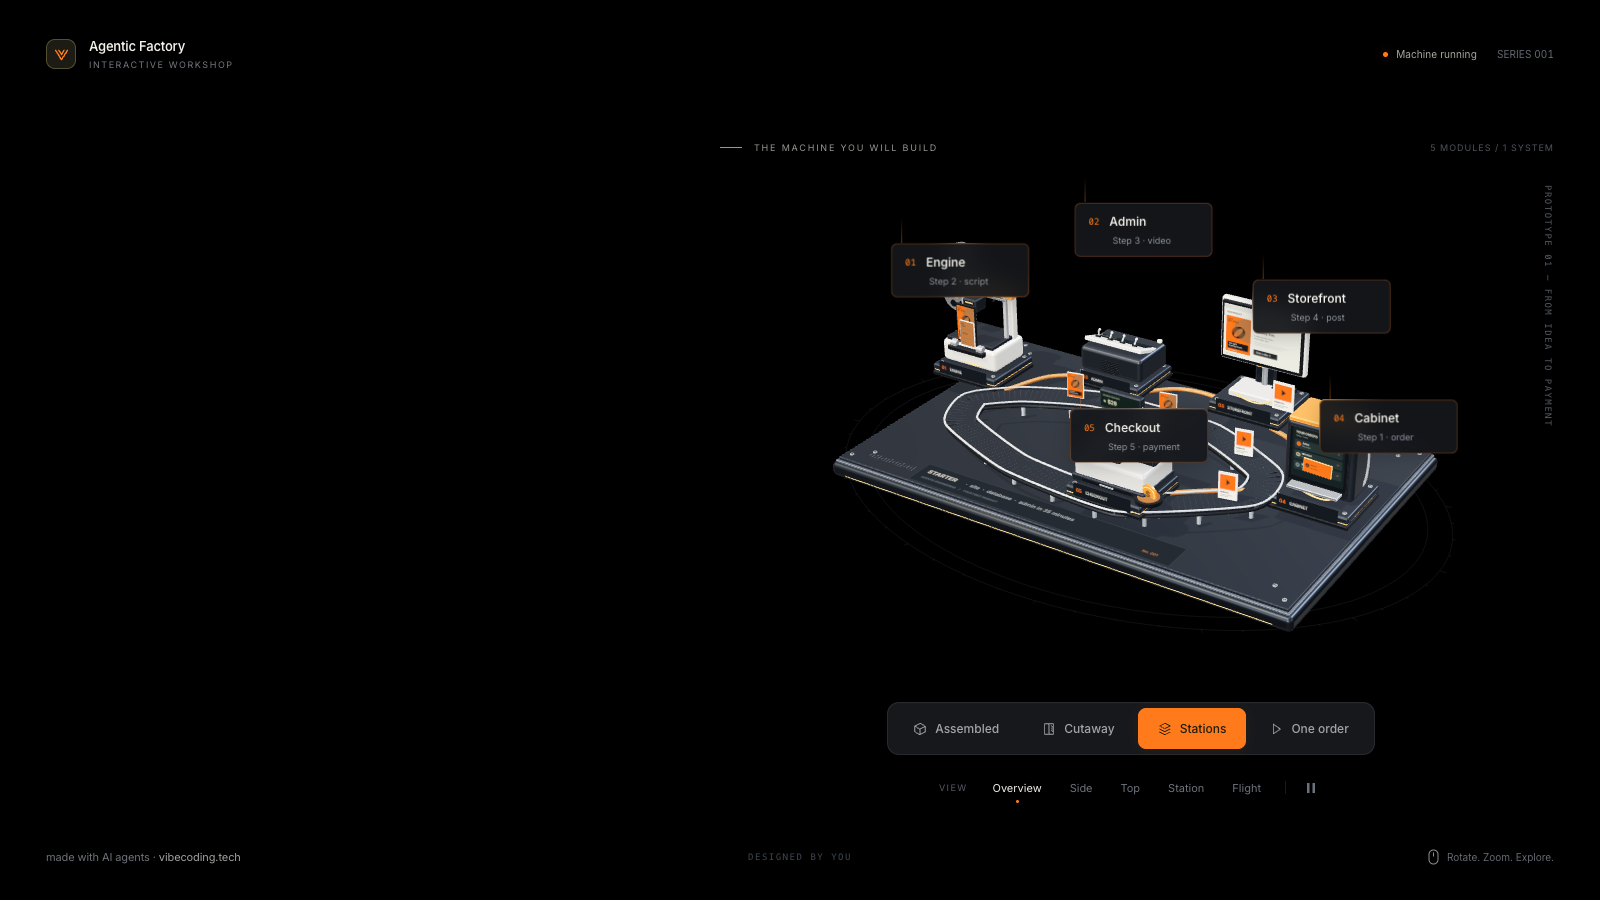
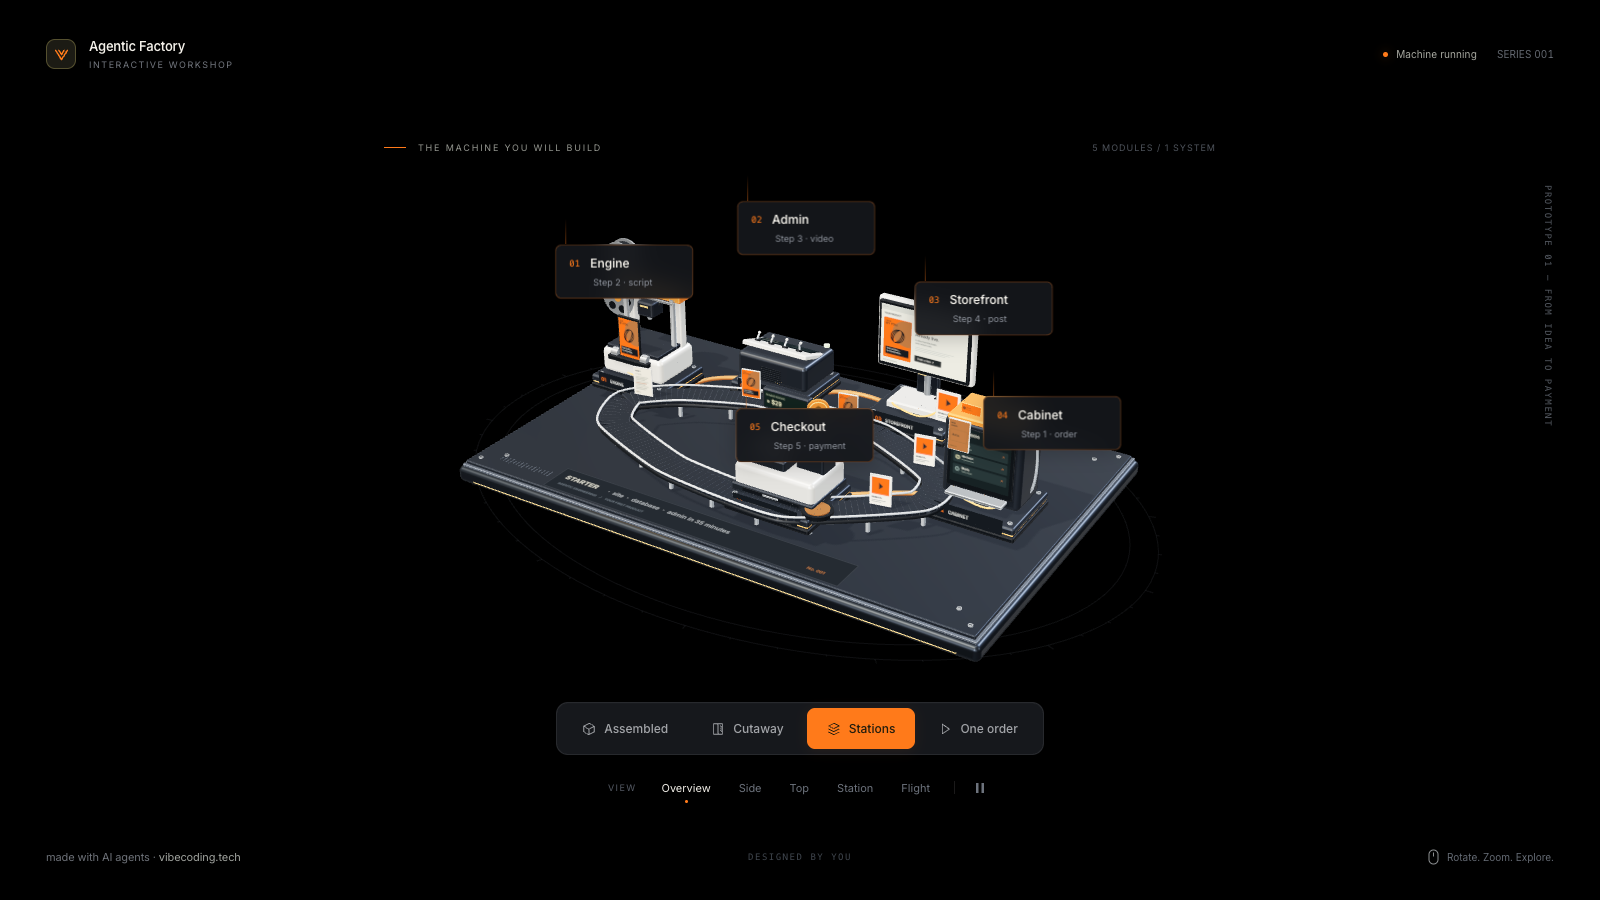
Agentic Factory: center the machine on the full page

diff --git a/agentic-factory-3d/app/globals.css b/agentic-factory-3d/app/globals.css
@@ -67,7 +67,7 @@ a:focus-visible {
   inset: 0;
   pointer-events: none;
   background: radial-gradient(
-    ellipse at 71% 48%,
+    ellipse at 50% 48%,
     transparent 30%,
     rgba(0, 0, 0, 0.12) 64%,
     rgba(0, 0, 0, 0.65) 100%
@@ -137,8 +137,8 @@ a:focus-visible {
 .scene-heading {
   position: absolute;
   top: 110px;
-  left: 45%;
-  right: 32px;
+  left: 24%;
+  right: 24%;
   pointer-events: none;
   display: flex;
   align-items: center;
@@ -177,7 +177,7 @@ a:focus-visible {
 .controls {
   position: absolute;
   bottom: 79px;
-  left: 43%;
+  left: 26px;
   right: 26px;
   display: flex;
   align-items: center;
@@ -408,8 +408,8 @@ svg {
 }
 #journey {
   position: absolute;
-  left: 46%;
-  right: 35px;
+  left: 24%;
+  right: 24%;
   top: 148px;
   opacity: 0;
   transform: translateY(-5px);
@@ -456,7 +456,7 @@ svg {
 }
 #loading {
   position: absolute;
-  left: 71%;
+  left: 50%;
   top: 48%;
   transform: translate(-50%, -50%);
   display: flex;
@@ -486,8 +486,8 @@ svg {
 }
 #error {
   position: absolute;
-  left: 48%;
-  right: 7%;
+  left: 27.5%;
+  right: 27.5%;
   top: 40%;
   border: 1px solid #ff7a1a30;
   background: #191b1f;
@@ -529,13 +529,23 @@ svg {
 .embed .wordmark {
   opacity: 0.65;
 }
+/* Embedded in a wide hero the machine stands in the right 58% (see layoutCamera
+   in lib/machine-scene.ts): the loader and the error card follow it there. */
+@media (min-width: 901px) {
+  .embed #loading {
+    left: 71%;
+  }
+  .embed #error {
+    left: 48%;
+    right: 7%;
+  }
+}
 @media (min-width: 1600px) {
   .topbar {
     inset: 38px 46px auto;
   }
   .scene-heading {
     top: 142px;
-    right: 46px;
   }
   .controls {
     bottom: 100px;

diff --git a/agentic-factory-3d/lib/machine-scene.ts b/agentic-factory-3d/lib/machine-scene.ts
@@ -1152,11 +1152,13 @@ export function initMachineScene(root: HTMLElement, fontFamily: string): () => v
       mobile = width <= 900
       renderer.setSize(width, height)
       camera.aspect = width / height
-      // A shifted frustum centers the object in the right 58%, without moving the orbit target.
+      // Embedded in a wide landing hero, a shifted frustum centers the object in the right 58%
+      // (the host page's headline goes on the left), without moving the orbit target. The full
+      // page and narrow frames keep the machine in the middle.
       camera.setViewOffset(
         width,
         height,
-        mobile ? 0 : -width * 0.21,
+        mobile || !embedded ? 0 : -width * 0.21,
         mobile || embedded ? 0 : height * 0.025,
         width,
         height
@@ -1576,7 +1578,12 @@ export function initMachineScene(root: HTMLElement, fontFamily: string): () => v
             ]
         let x = (anchor.x * 0.5 + 0.5) * width - 40 + offsets[i][0],
           y = (-anchor.y * 0.5 + 0.5) * height - 52 + offsets[i][1]
-        x = THREE.MathUtils.clamp(x, mobile ? 9 : width * 0.425, width - (mobile ? 123 : 165))
+        // Embedded in a wide hero the callouts stay out of the headline side (the left 42.5%).
+        x = THREE.MathUtils.clamp(
+          x,
+          mobile || !embedded ? 9 : width * 0.425,
+          width - (mobile ? 123 : 165)
+        )
         y = THREE.MathUtils.clamp(y, 130, height - 200)
         s.label.style.transform = `translate(${x}px,${y}px)`
       })

diff --git a/agentic-factory-3d/README.md b/agentic-factory-3d/README.md
@@ -23,9 +23,9 @@ break and change shape at every station:
   (the camera follows a single order from the first card to the receipt)
 - Five cameras: Overview, Side, Top, Station, Flight; a slow cinematic orbit
   when nobody touches it; hover a station to highlight it, click to fly to it
-- Built for a landing page: above 900 px the machine stands in the right 58 %
-  of the frame and leaves the left side dark for your headline; below 900 px
-  it is centered
+- Built for a landing page: in embed mode above 900 px the machine stands in
+  the right 58 % of the frame and leaves the left side dark for your headline;
+  the full page and frames below 900 px keep it centered
 - **Embed mode** (`?embed=1`) and a small API: `window.__machine` plus
   `postMessage` both ways
 - No models, no images: every part, and every screen inside the scene, is
@@ -173,8 +173,9 @@ poster. The port keeps the geometry, the numbers and the animation of that
 version; it moves three.js to npm, splits the page into a React component
 and a scene module with a proper dispose, translates every label and every
 in-scene screen into English (prices in dollars), replaces the course
-chapters in the callouts with each station's step in the order flow, and
-changes the footer link to a credit line.
+chapters in the callouts with each station's step in the order flow,
+changes the footer link to a credit line, and centers the machine on the full
+page (the right-58 % layout stays for embed mode).
 
 <details>
 <summary>The prompt, translated from Russian</summary>
